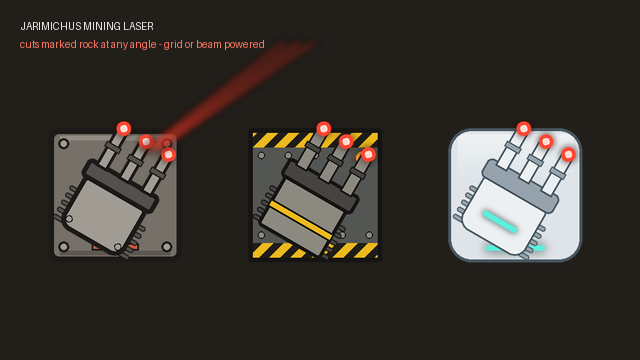
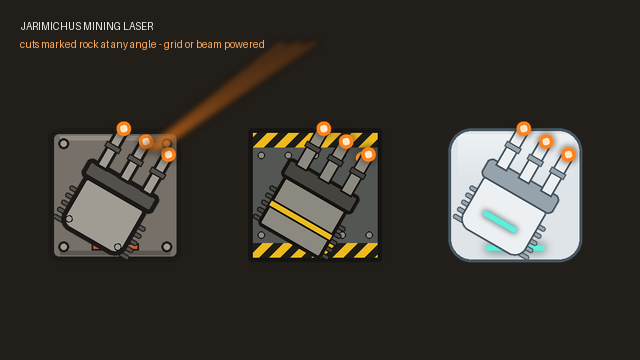
Mining laser: orange industrial-laser beams and lenses
Claude-Session: https://claude.ai/code/session_01RPUcRCaJ5HrcRVLy6MDcDw

diff --git a/Tools/generate_art.py b/Tools/generate_art.py
@@ -151,7 +151,7 @@ def beam_glow():
 
 
 def top(st):
-    """Trigun turret head: three short barrels with red-hot lenses on a finned heat-sink block, pointing North."""
+    """Trigun turret head: three short barrels with orange-hot lenses on a finned heat-sink block, pointing North."""
     img = blank(); d = ImageDraw.Draw(img); o = rgba(st["outline"]); ow = max(3, st["ow"] - 2)
     sharp = st["deco"] in ("vents", "engrave", "hazard")
     r = 8 if sharp else 22
@@ -162,9 +162,9 @@ def top(st):
     for bx in (84, 128, 172):
         d.rectangle([bx - 11, 26, bx + 11, 100], fill=rgba(st["metal"]), outline=o, width=max(3, ow - 3))
         d.rectangle([bx - 14, 54, bx + 14, 64], fill=rgba(st["metal_dark"]), outline=o, width=2)
-        heat = blank(); ImageDraw.Draw(heat).ellipse([bx - 12, 10, bx + 12, 34], fill=(255, 70, 50, 255))
+        heat = blank(); ImageDraw.Draw(heat).ellipse([bx - 12, 10, bx + 12, 34], fill=(255, 130, 30, 255))
         img.alpha_composite(glow_layer(heat, 6))
-        d.ellipse([bx - 6, 16, bx + 6, 28], fill=(255, 220, 210, 255))
+        d.ellipse([bx - 6, 16, bx + 6, 28], fill=(255, 232, 200, 255))
     if st["deco"] == "hazard":
         d.rectangle([66, 170, 190, 184], fill=rgba(st["accents"][NODE]), outline=o, width=3)
     elif st["deco"] == "strips":
@@ -185,10 +185,10 @@ def preview():
         img.alpha_composite(t.resize((150, 150), Image.LANCZOS), (40 + i * 200, 120))
     beams = Image.new("RGBA", (w, h), (0, 0, 0, 0)); bd = ImageDraw.Draw(beams)
     for k, dx in enumerate((-8, 0, 8)):
-        bd.line([(150 + dx, 150), (300 + dx * 2, 40)], fill=(255, 60, 40, 255), width=4)
+        bd.line([(150 + dx, 150), (300 + dx * 2, 40)], fill=(255, 130, 30, 255), width=4)
     img.alpha_composite(beams.filter(ImageFilter.GaussianBlur(4)))
     d.text((20, 20), "JARIMICHUS MINING LASER", fill=(240, 240, 235, 255))
-    d.text((20, 38), "cuts marked rock at any angle - grid or beam powered", fill=(255, 120, 100, 255))
+    d.text((20, 38), "cuts marked rock at any angle - grid or beam powered", fill=(255, 170, 90, 255))
     return img.convert("RGB")
 
 

diff --git a/Source/JarimichusMiningLaser/Shared/TrigunRenderer.cs b/Source/JarimichusMiningLaser/Shared/TrigunRenderer.cs
@@ -5,8 +5,8 @@ using Verse;
 namespace JarimichusMiningLaser
 {
     /// <summary>
-    /// Draws the trigun's three thin red beams from its three barrels, converging on a point. Each pulses on its own
-    /// rhythm but never fades out. Red in every art style.
+    /// Draws the trigun's three thin orange beams from its three barrels, converging on a point. Each pulses on its own
+    /// rhythm but never fades out. Orange (an industrial laser) in every art style.
     /// </summary>
     [StaticConstructorOnStartup]
     public static class TrigunRenderer
@@ -15,8 +15,8 @@ namespace JarimichusMiningLaser
         private static readonly Material Glow = MaterialPool.MatFrom("JarimichusMiningLaser/Effects/BeamGlow", ShaderDatabase.MoteGlow);
         private static readonly MaterialPropertyBlock Block = new MaterialPropertyBlock();
         private static readonly int ColorId = Shader.PropertyToID("_Color");
-        private static readonly Color CoreColor = new Color(1f, 0.55f, 0.48f);
-        private static readonly Color GlowColor = new Color(1f, 0.16f, 0.10f);
+        private static readonly Color CoreColor = new Color(1f, 0.82f, 0.66f);
+        private static readonly Color GlowColor = new Color(1f, 0.48f, 0.08f);
         private static readonly float[] BarrelOffsets = { -0.17f, 0f, 0.17f };
         private static readonly float[] EndOffsets = { -0.06f, 0f, 0.06f };
 

diff --git a/Source/JarimichusMiningLaser/Building.cs b/Source/JarimichusMiningLaser/Building.cs
@@ -3,7 +3,7 @@ using Verse;
 
 namespace JarimichusMiningLaser
 {
-    /// <summary>Draws the base plate, the turning trigun head and, while cutting, the three red beams.</summary>
+    /// <summary>Draws the base plate, the turning trigun head and, while cutting, the three orange beams.</summary>
     public class Building_MiningLaser : Building
     {
         private CompMiningLaser laser;

diff --git a/README.md b/README.md
@@ -6,7 +6,7 @@ A three-barrelled mining laser for RimWorld 1.4, 1.5 and 1.6.
 
 - It cuts the nearest rock or ore **marked for mining** that it can see in a straight line, at any angle, within 30 tiles, for the same yield a colonist would get. Walls block its line; Beamwire's beam windows don't.
 - It cuts about 60 HP per second per kW, and draws up to **2,000 W** from its power grid only while it has work (20 W idle).
-- Three thin red beams pulse independently. The head turns smoothly onto its target and back to rest (the direction it was placed facing) when idle.
+- Three thin orange industrial-laser beams pulse independently. The head turns smoothly onto its target and back to rest (the direction it was placed facing) when idle.
 - Its cutting beam burns anyone on the line (mod setting).
 - Research **Mining laser** (Electricity + Deep drilling) on the vanilla Main tab. Its position is worked out at load time, one column right of Deep drilling.
 
